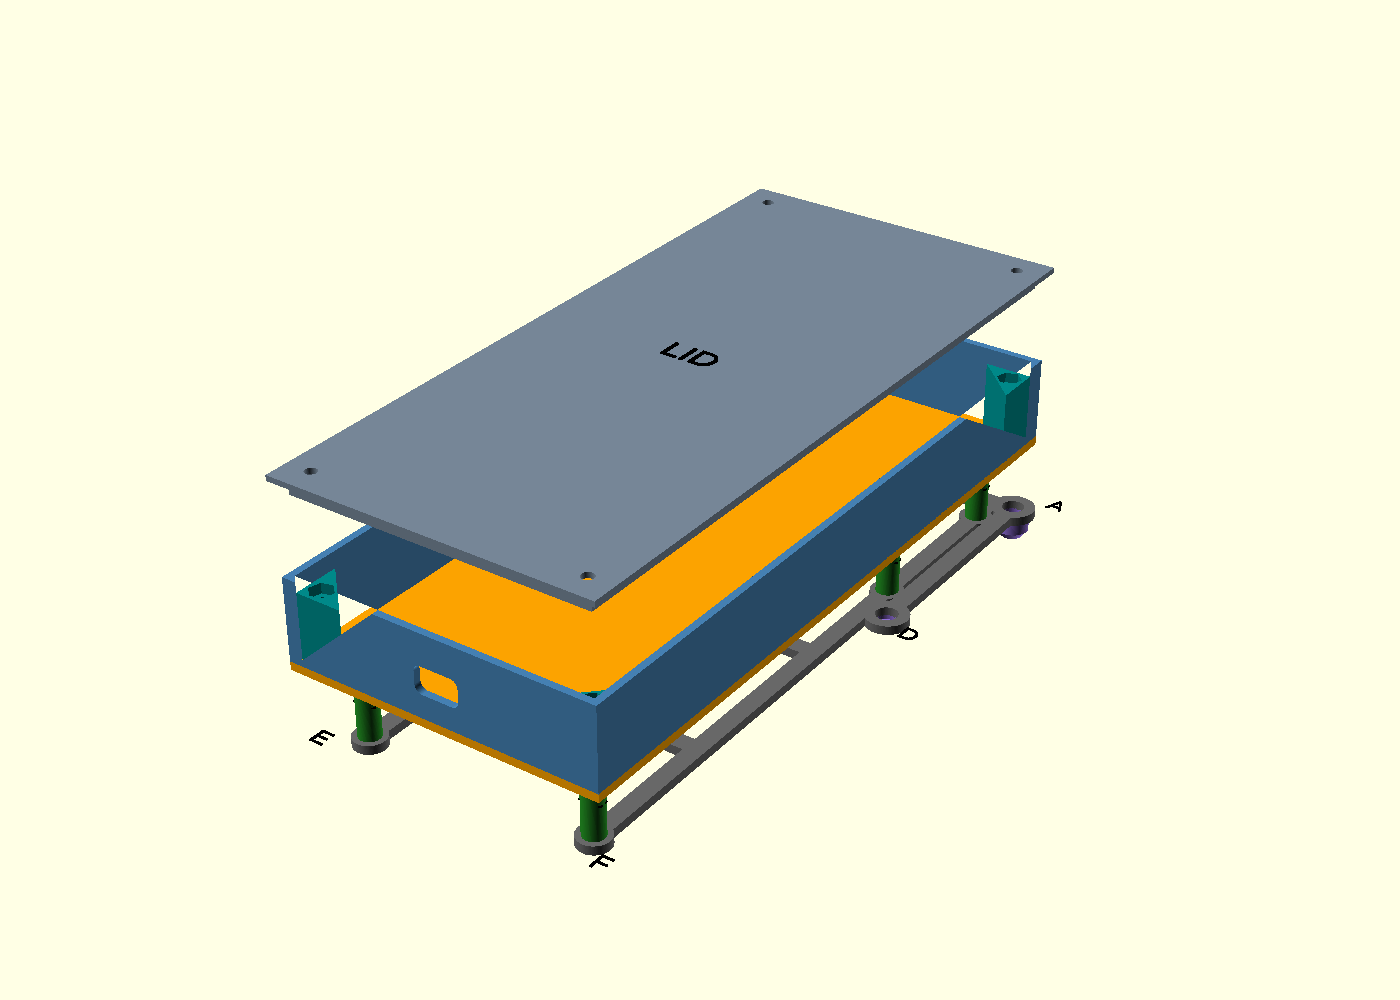
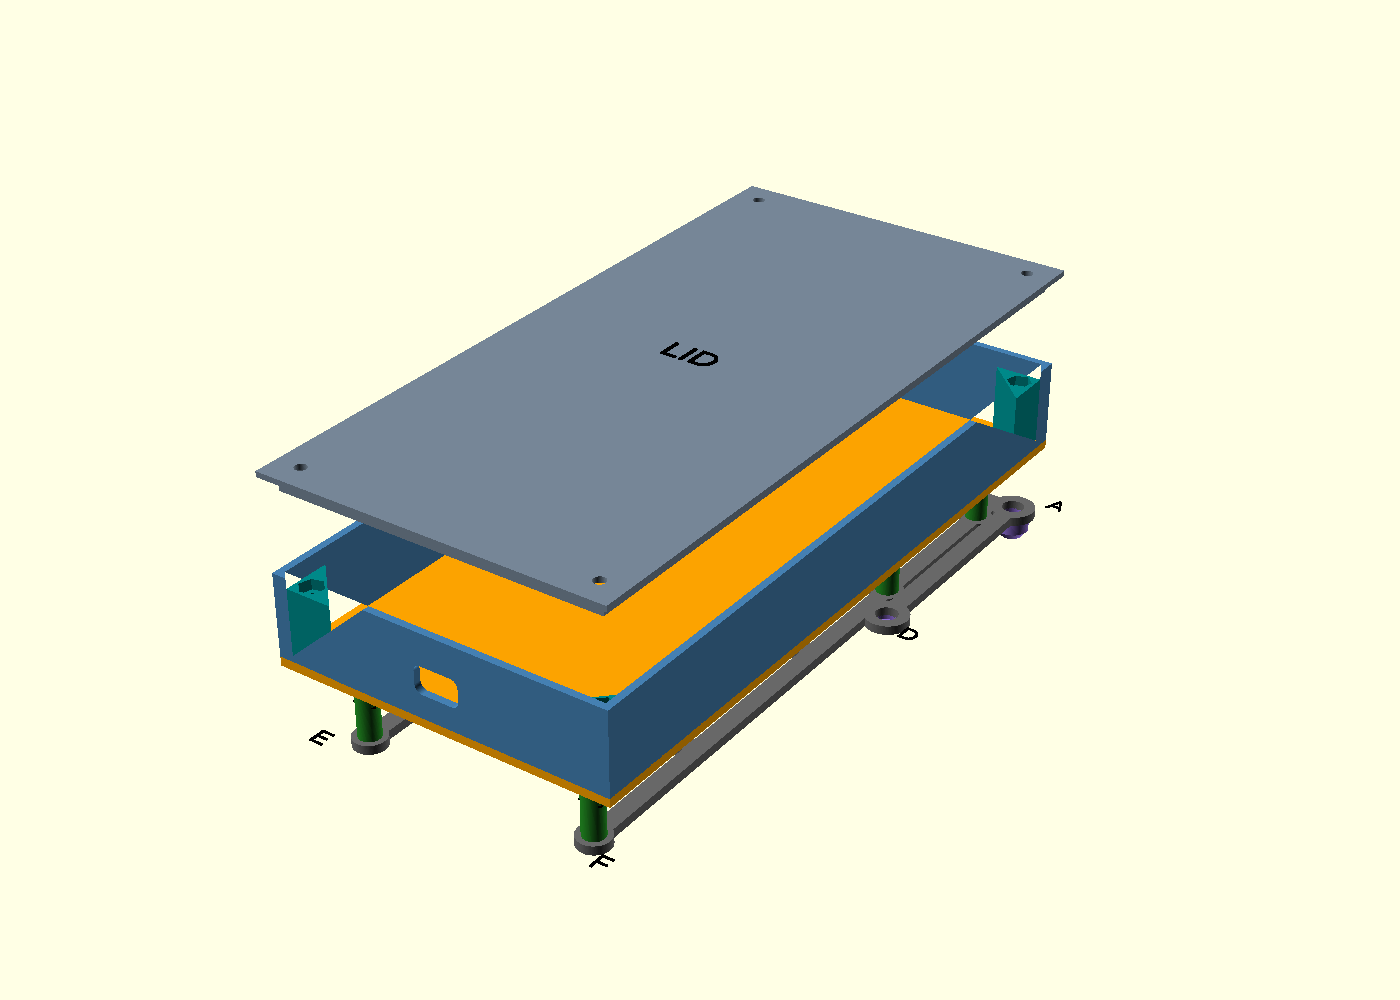
Widen payload box

diff --git a/README.md b/README.md
@@ -28,8 +28,8 @@ The design includes:
 
 - M300 hole spacing: `78 x 66 mm`
 - lower rear rail outer width: `71 mm`
-- box outer width: `88.5 mm`
-- box inner width: about `84.5 mm`
+- box outer width: `94.5 mm`
+- box inner width: about `90.5 mm`
 - box inner length: about `189.5 mm`
 - vertical clearance between lower frame and upper plate: `21 mm`
 - box wall thickness: `2 mm`